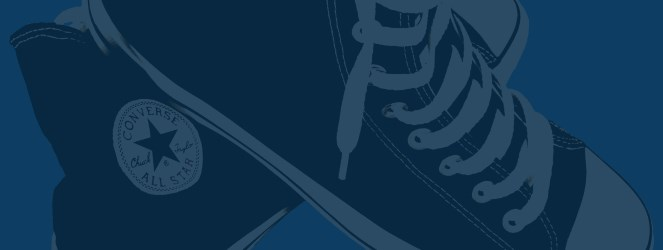
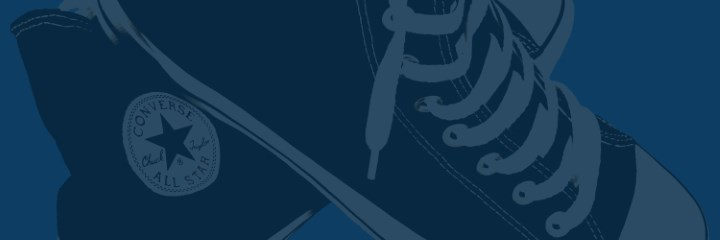
Improve header display

diff --git a/app/styles/main.scss b/app/styles/main.scss
@@ -41,10 +41,10 @@ p {
   background-repeat: no-repeat;
   color: $light-text-color;
   @media(max-height: $small-screen-height-limit), (max-width: $small-screen-width-limit) {
-    height: 250px;
+    height: 240px;
     background-image: url("/images/header_small.jpg");
   }
-  height: 724px;
+  height: 640px;
   vertical-align: middle;
   display: table;
   width: 100%;

diff --git a/app/styles/_variables.scss b/app/styles/_variables.scss
@@ -18,4 +18,4 @@ $small-title-text-size: 1.6em;
 
 $xsmall-screen-width-limit: 400px;
 $small-screen-width-limit: 600px;
-$small-screen-height-limit: 768px;
+$small-screen-height-limit: 720px;
